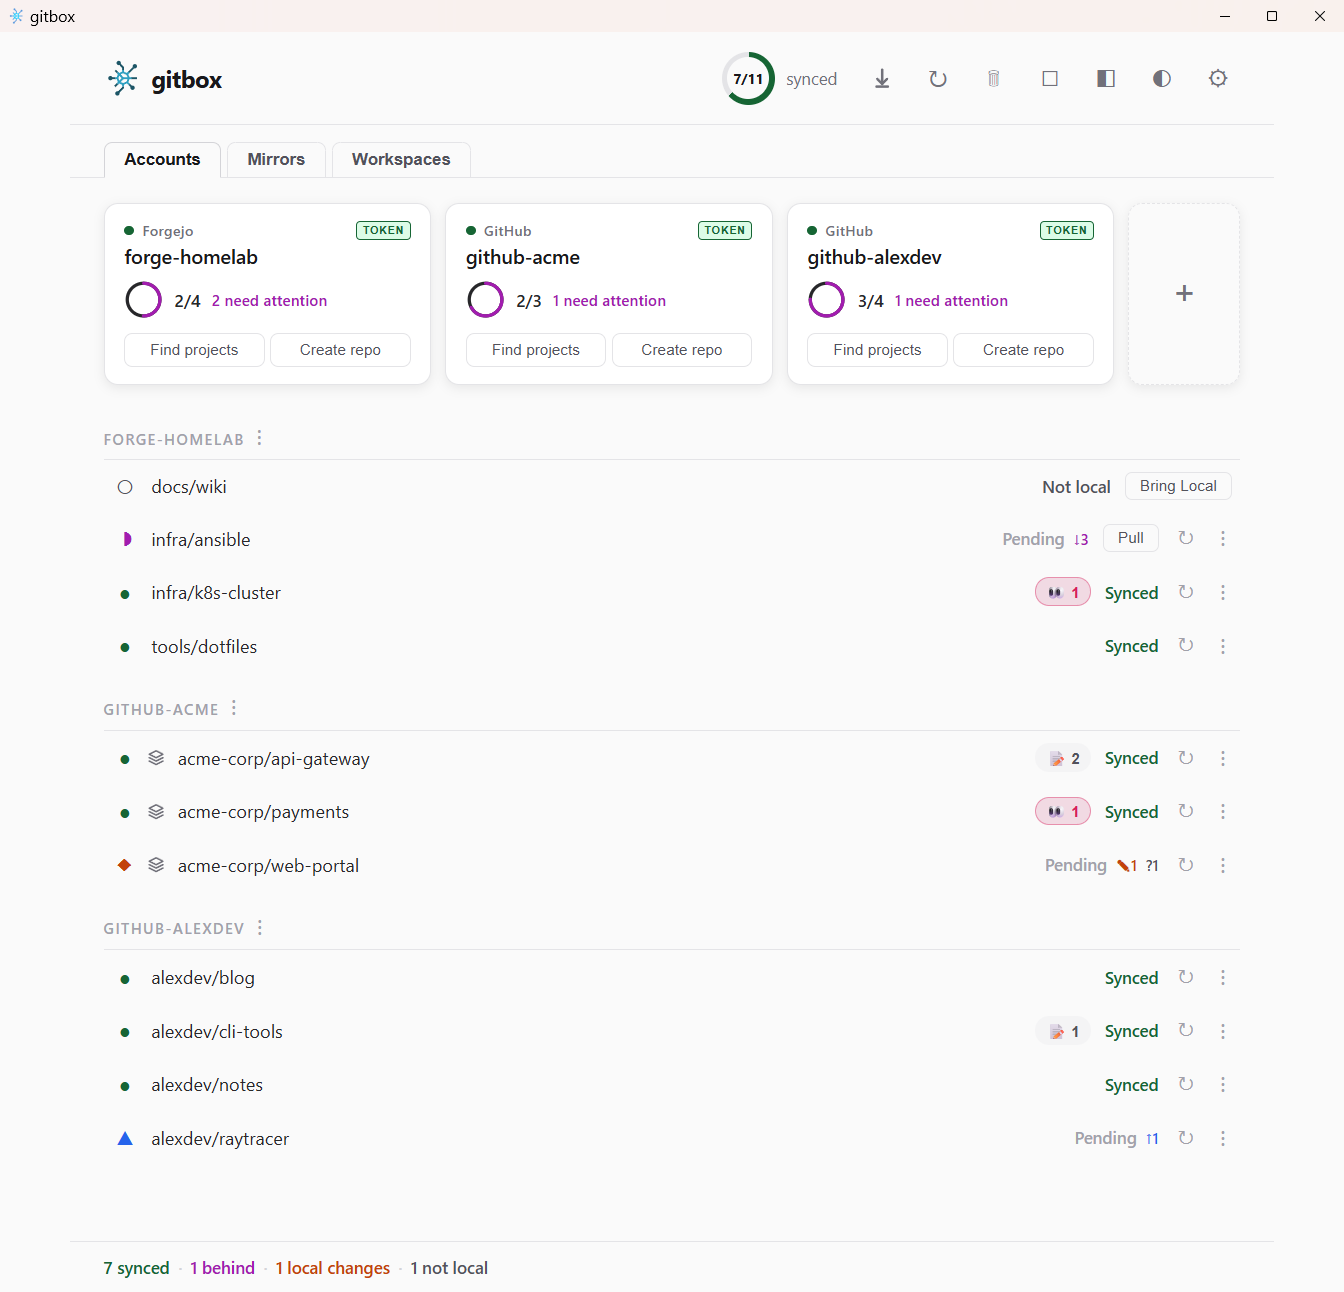
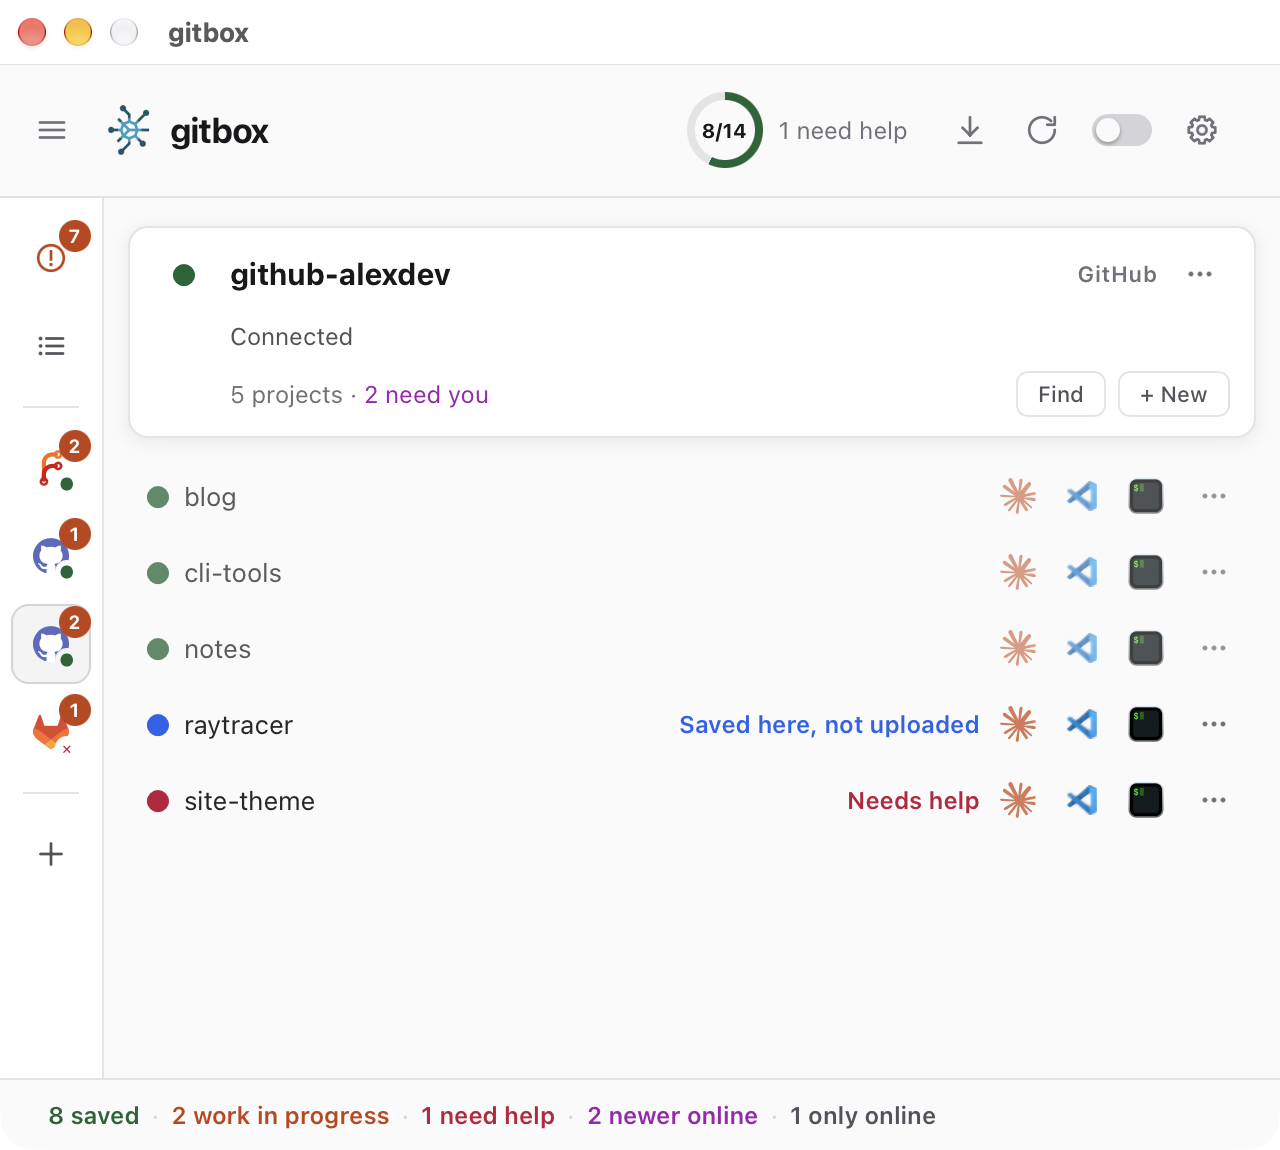
docs(readme): refresh the screenshots for the 2.5.0 UI
The hero now shows Simple mode in the light theme, one account with the
sidebar folded. A new Simple and Advanced modes section explains both modes
and shows Advanced mode's Needs attention view. The dark, menu and compact
screenshots predate the redesign and are gone from the README.

diff --git a/readme.md b/readme.md
@@ -16,10 +16,7 @@
 </p>
 
 <p align="center">
-  <picture>
-    <source media="(prefers-color-scheme: dark)" srcset="assets/screenshot-dark.png">
-    <img src="assets/screenshot-gui.png" alt="Gitbox with its sidebar of accounts and the Needs attention view listing clones that are behind, ahead, or carry local changes" width="820">
-  </picture>
+  <img src="assets/screenshot-gui.png" alt="Gitbox in Simple mode: one account's projects, each with its state in plain words and buttons to open it in an AI harness, an editor, or a terminal" width="640">
 </p>
 
 ## What it is
@@ -64,10 +61,12 @@ Run it with `--help` for options. If you'd rather place the app yourself, each r
 
 Discovery, cloning, and repo creation work on all five providers. Mirroring is fully automated on Gitea, Forgejo, and GitLab; for GitHub and Bitbucket gitbox shows the manual steps.
 
+## Simple and Advanced modes
+
+Gitbox has two modes, and I switch between them with the toggle in the top bar. Simple is for people who don't know Git and only want their projects safe: each project says in plain words whether the work is saved, and the screen keeps only the buttons they need. New installs start in Simple. Advanced adds every Git detail and tool: ahead, behind, and changed counts, pull request and branch badges, a fetch button per row, the Mirrors and Workspaces views, delete mode, and the compact view.
+
 <p align="center">
-  <img src="assets/screenshot-menu.png" alt="A clone's flat menu: open on the web or in the file manager, open with every terminal, editor and AI harness, and maintenance" width="560">
-  &nbsp;
-  <img src="assets/screenshot-compact.png" alt="Compact view: overall sync ring and per-account repo lists" width="220">
+  <img src="assets/screenshot-advanced.png" alt="Advanced mode: the account sidebar and the Needs attention view, grouped into credentials, needs attention, local work, behind, and not cloned" width="820">
 </p>
 
 ## Updating

diff --git a/docs/es/developer-guide.md b/docs/es/developer-guide.md
@@ -362,7 +362,7 @@ Hago las capturas del README con la app real ejecutándose sobre una flota falsa
 pwsh scripts/demo-fleet/shot.ps1 -Out assets/screenshot-gui.png -Width 1360 -Height 1300
 ```
 
-El README usa `assets/screenshot-gui.png` (claro), `assets/screenshot-dark.png`, `assets/screenshot-menu.png` y `assets/screenshot-compact.png`. `screenshot-gui.png` es también la captura AppStream del AppImage de Linux. Settings → Terminals lista los terminales y rutas reales del host, así que deja esa pantalla fuera de las capturas.
+El README usa `assets/screenshot-gui.png` (modo Simple) y `assets/screenshot-advanced.png`, ambas en tema claro. `screenshot-gui.png` es también la captura AppStream del AppImage de Linux. Settings → Terminals lista los terminales y rutas reales del host, así que deja esa pantalla fuera de las capturas.
 
 ---
 

diff --git a/docs/developer-guide.md b/docs/developer-guide.md
@@ -362,7 +362,7 @@ I take the README screenshots from the real app running on a fake fleet, so they
 pwsh scripts/demo-fleet/shot.ps1 -Out assets/screenshot-gui.png -Width 1360 -Height 1300
 ```
 
-The README uses `assets/screenshot-gui.png` (light), `assets/screenshot-dark.png`, `assets/screenshot-menu.png`, and `assets/screenshot-compact.png`. `screenshot-gui.png` is also the AppStream screenshot for the Linux AppImage. Settings → Terminals lists the host's real terminals and paths, so keep that screen out of shots.
+The README uses `assets/screenshot-gui.png` (Simple mode) and `assets/screenshot-advanced.png`, both in the light theme. `screenshot-gui.png` is also the AppStream screenshot for the Linux AppImage. Settings → Terminals lists the host's real terminals and paths, so keep that screen out of shots.
 
 ---
 
